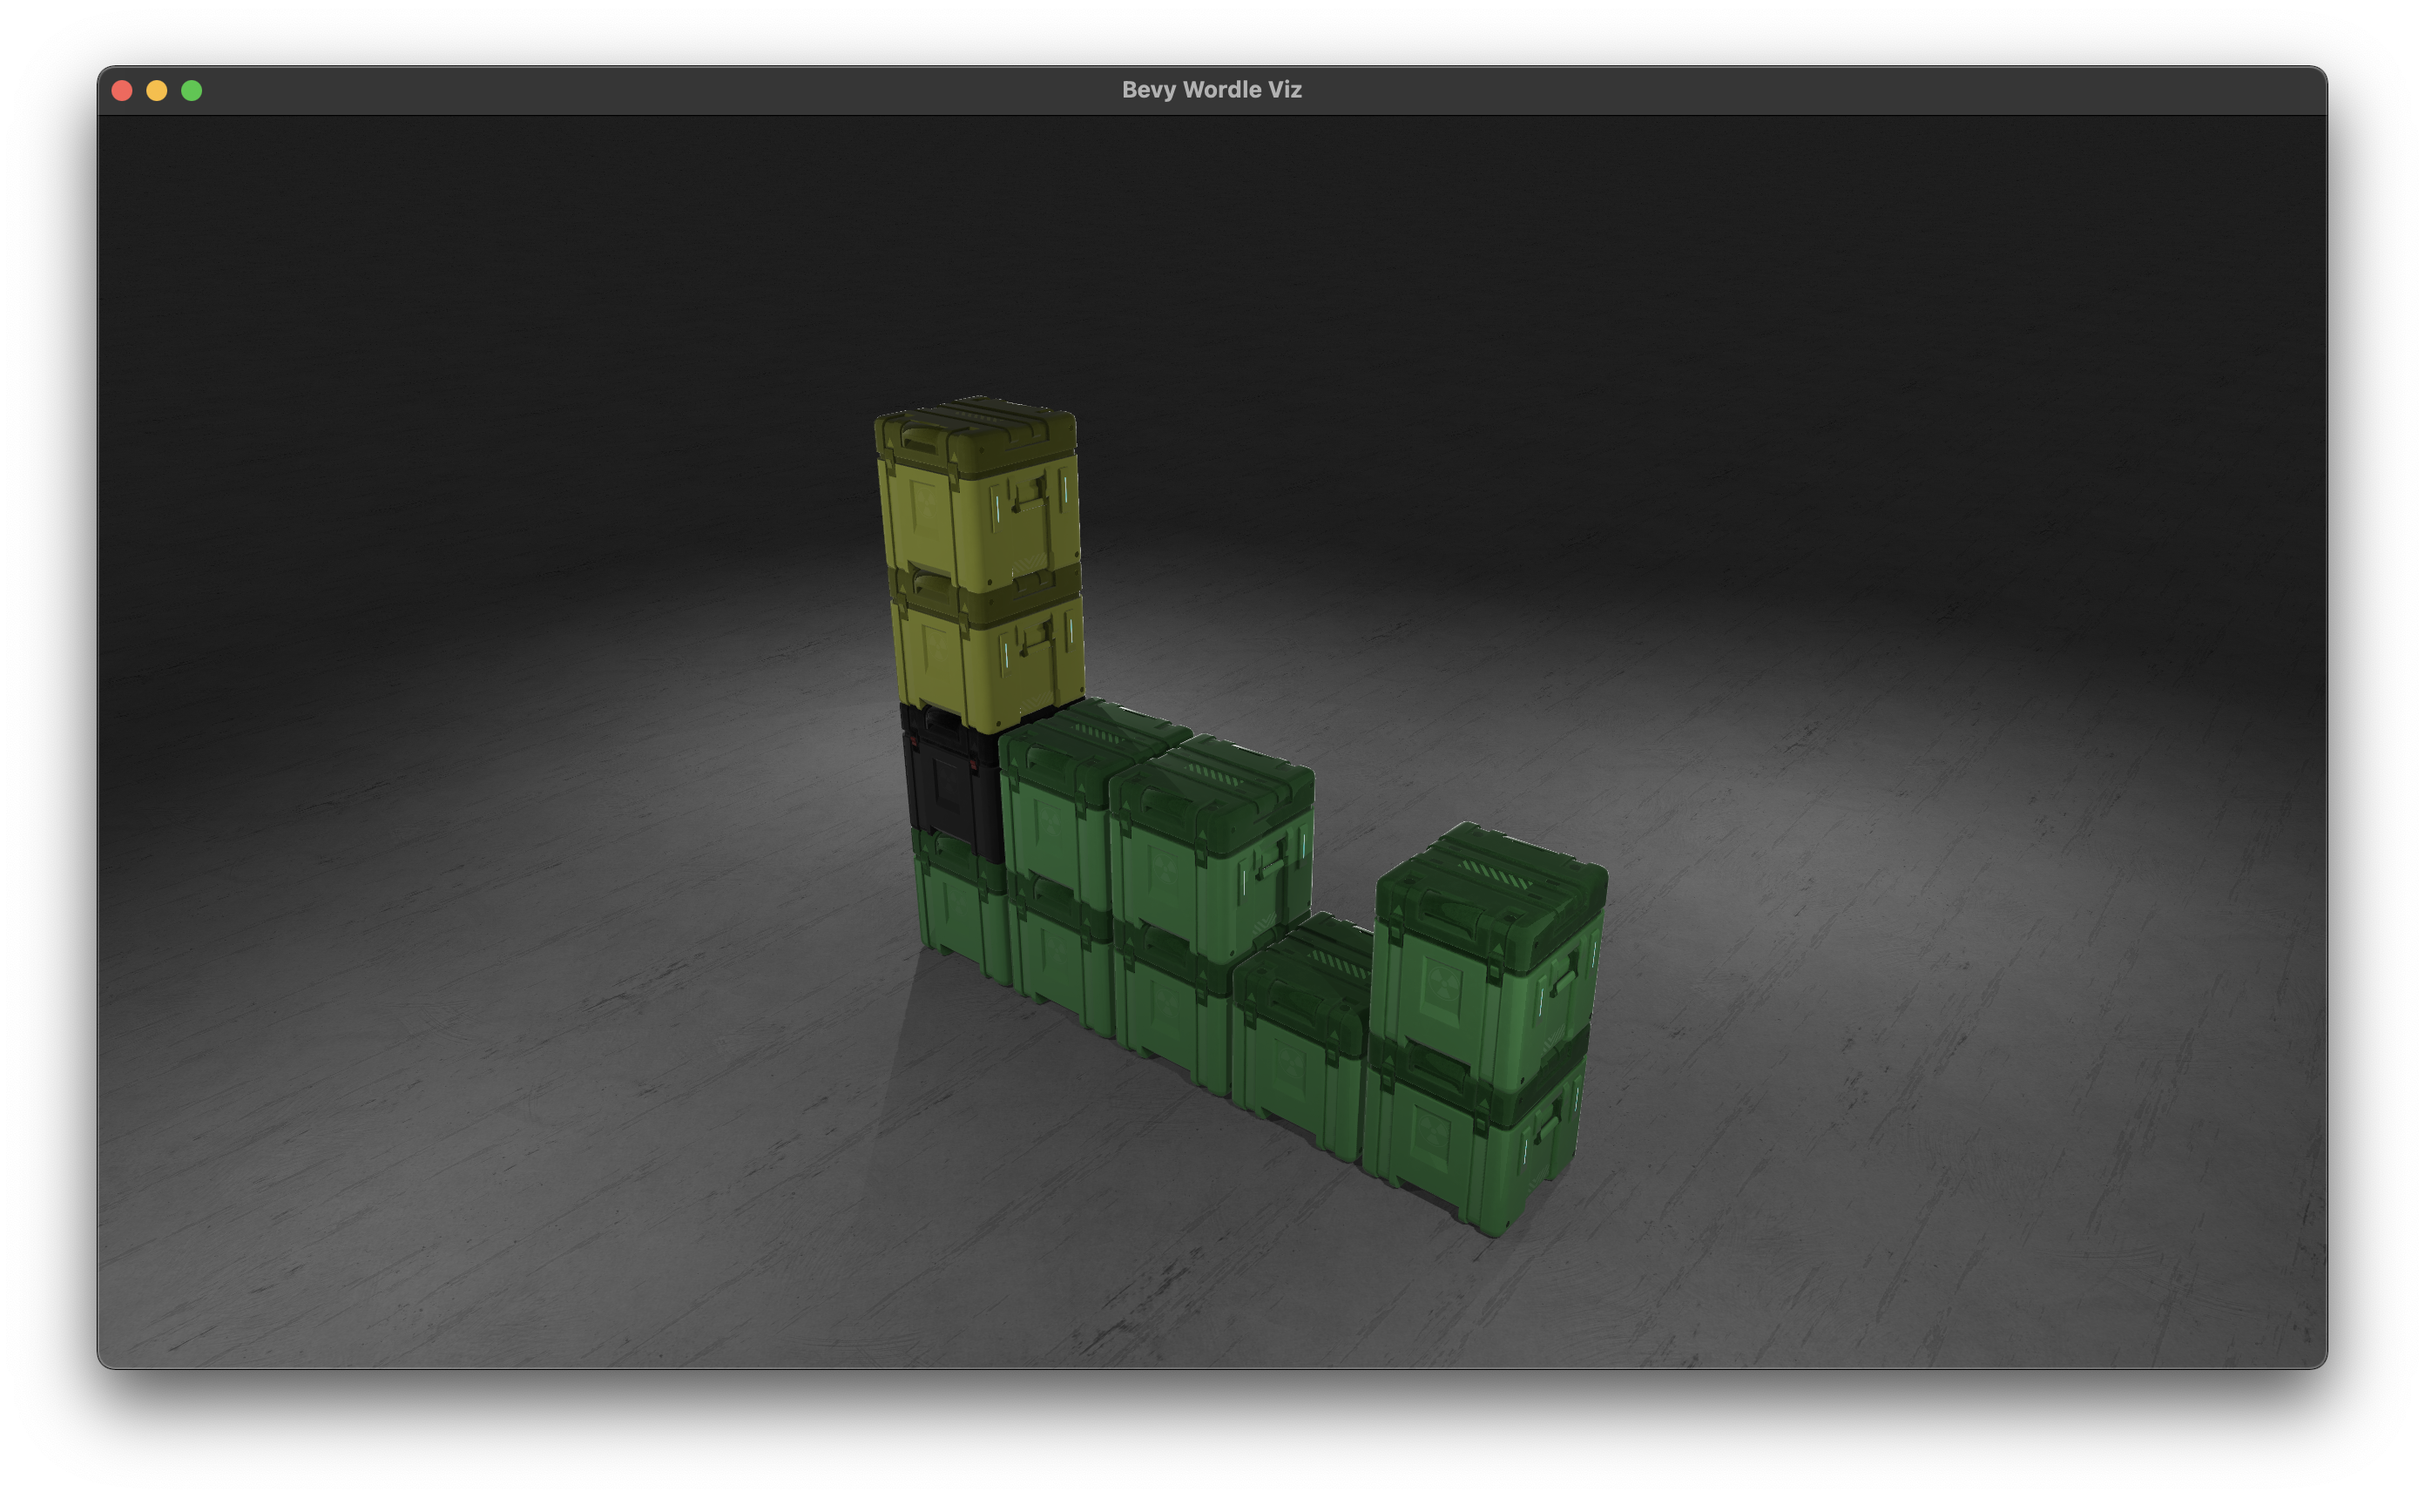
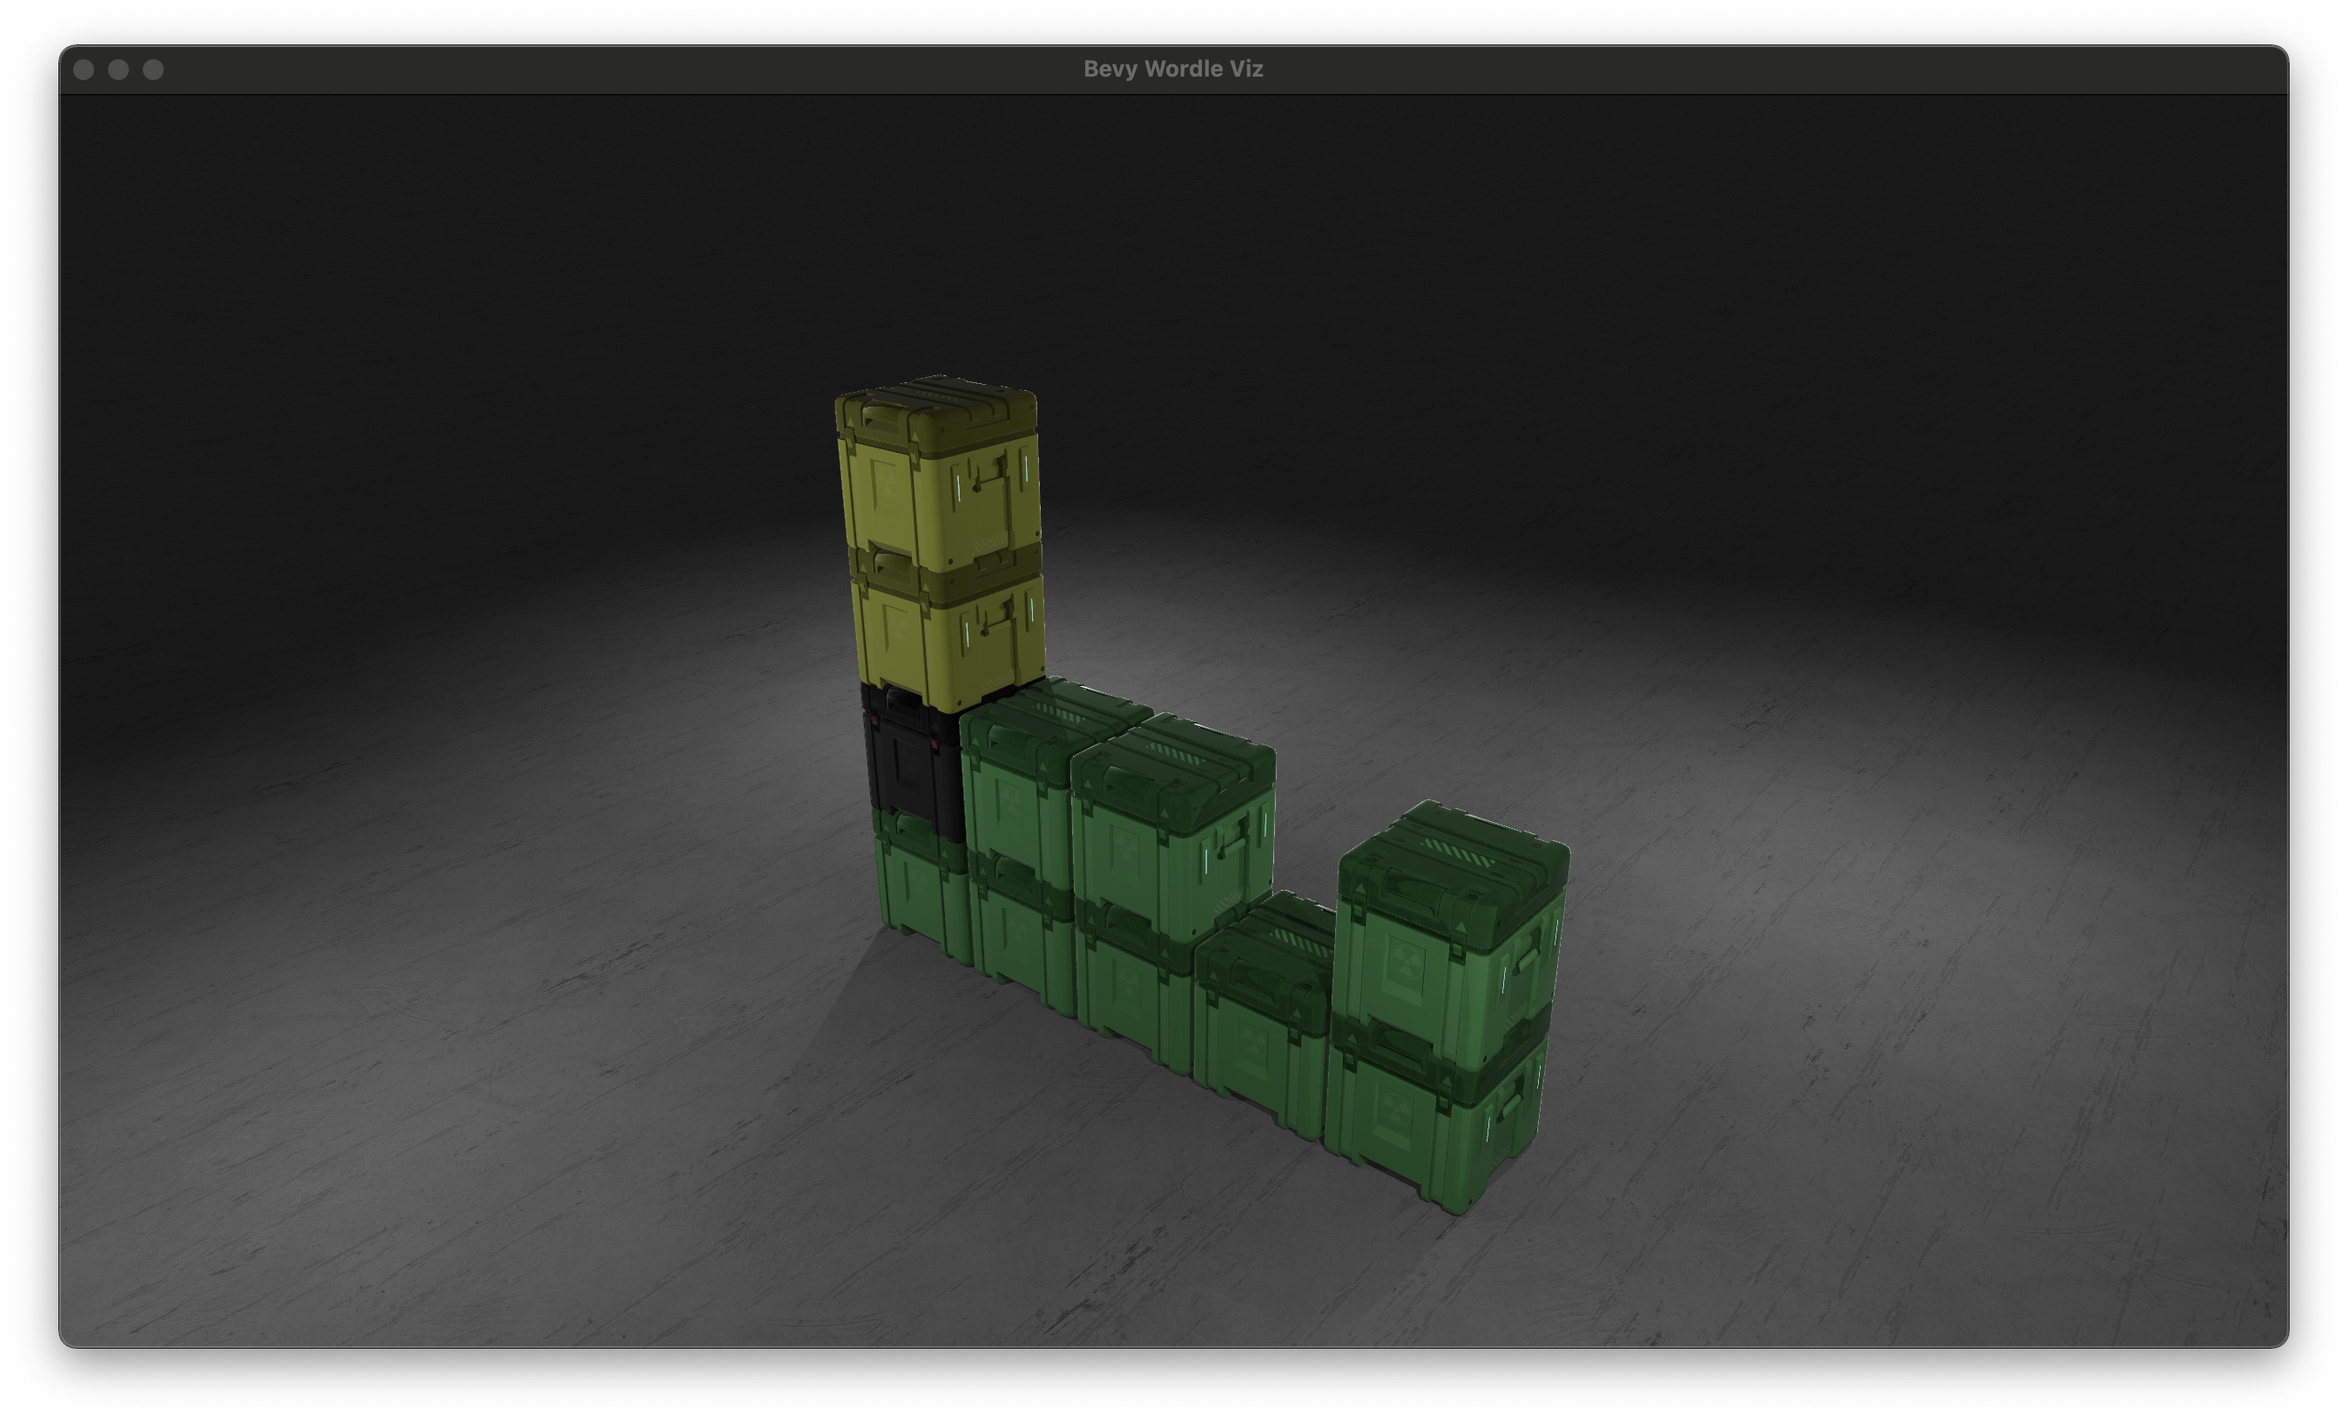
Adjust lighting

Changed region(s): [[0.0, 0.0312, 0.997, 0.9688], [0.3427, 0.2812, 0.6855, 0.875]]

diff --git a/src/main.rs b/src/main.rs
@@ -44,7 +44,7 @@ fn main() {
         })
         .insert_resource(AmbientLight {
             color: Color::WHITE,
-            brightness: 1.0 / 12.0f32,
+            brightness: 1.0 / 16.0f32,
         })
         .add_plugins(DefaultPlugins)
         .init_resource::<Handles>()
@@ -171,7 +171,7 @@ fn setup(mut commands: Commands, handles: Res<Handles>) {
             ] {
                 parent.spawn_bundle(PointLightBundle {
                     point_light: PointLight {
-                        intensity: 1000.0,
+                        intensity: 900.0,
                         shadows_enabled: true,
                         radius: 20.,
                         ..Default::default()
